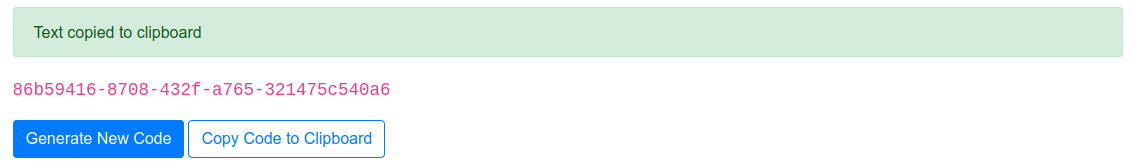
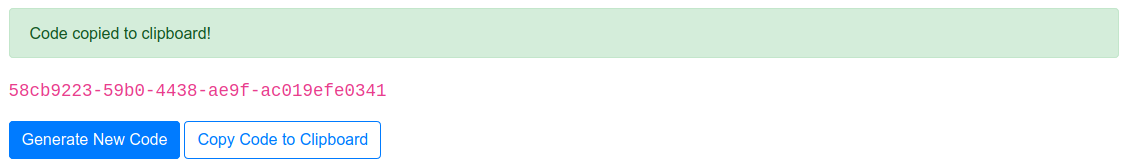
Change alert text

Changed region(s): [[0.0, 0.0303, 0.9912, 0.3636], [0.0, 0.7273, 0.3407, 0.9697], [0.0, 0.4848, 0.3407, 0.6061]]

diff --git a/app.py b/app.py
@@ -9,7 +9,7 @@ from dash.exceptions import PreventUpdate
 app = dash.Dash(__name__, external_stylesheets=[dbc.themes.BOOTSTRAP])
 
 copy_alert = dbc.Alert(
-    "Text copied to clipboard", id="copy_alert", duration=4000, is_open=False
+    "Code copied to clipboard!", id="copy_alert", duration=4000, is_open=False
 )
 
 code = html.P(html.Code("Some text", id="text_to_copy"), className="lead")
